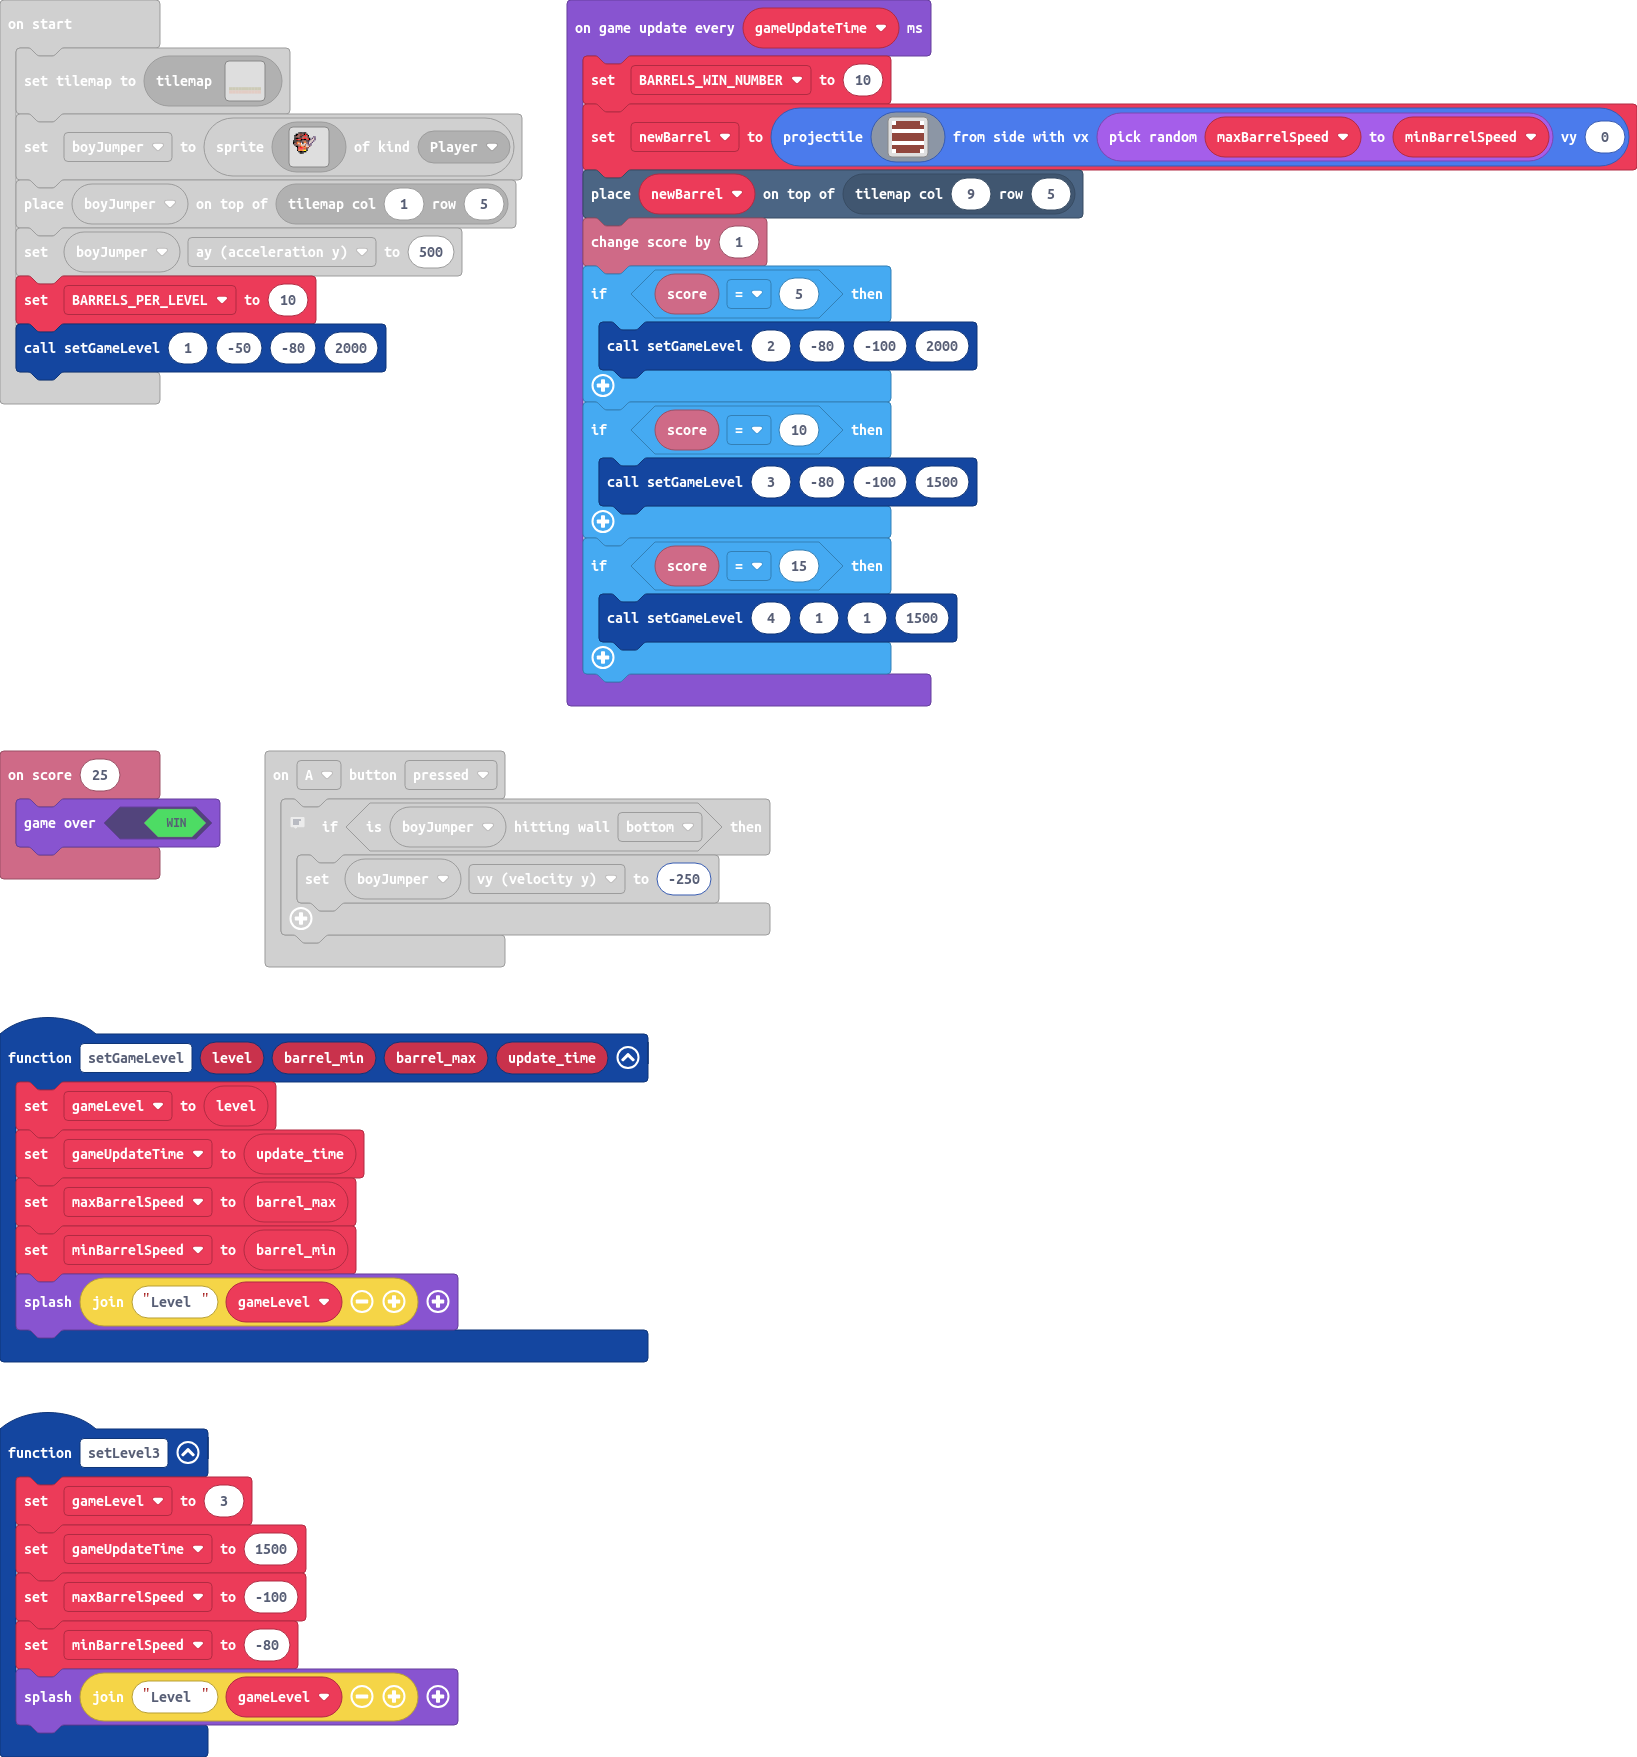
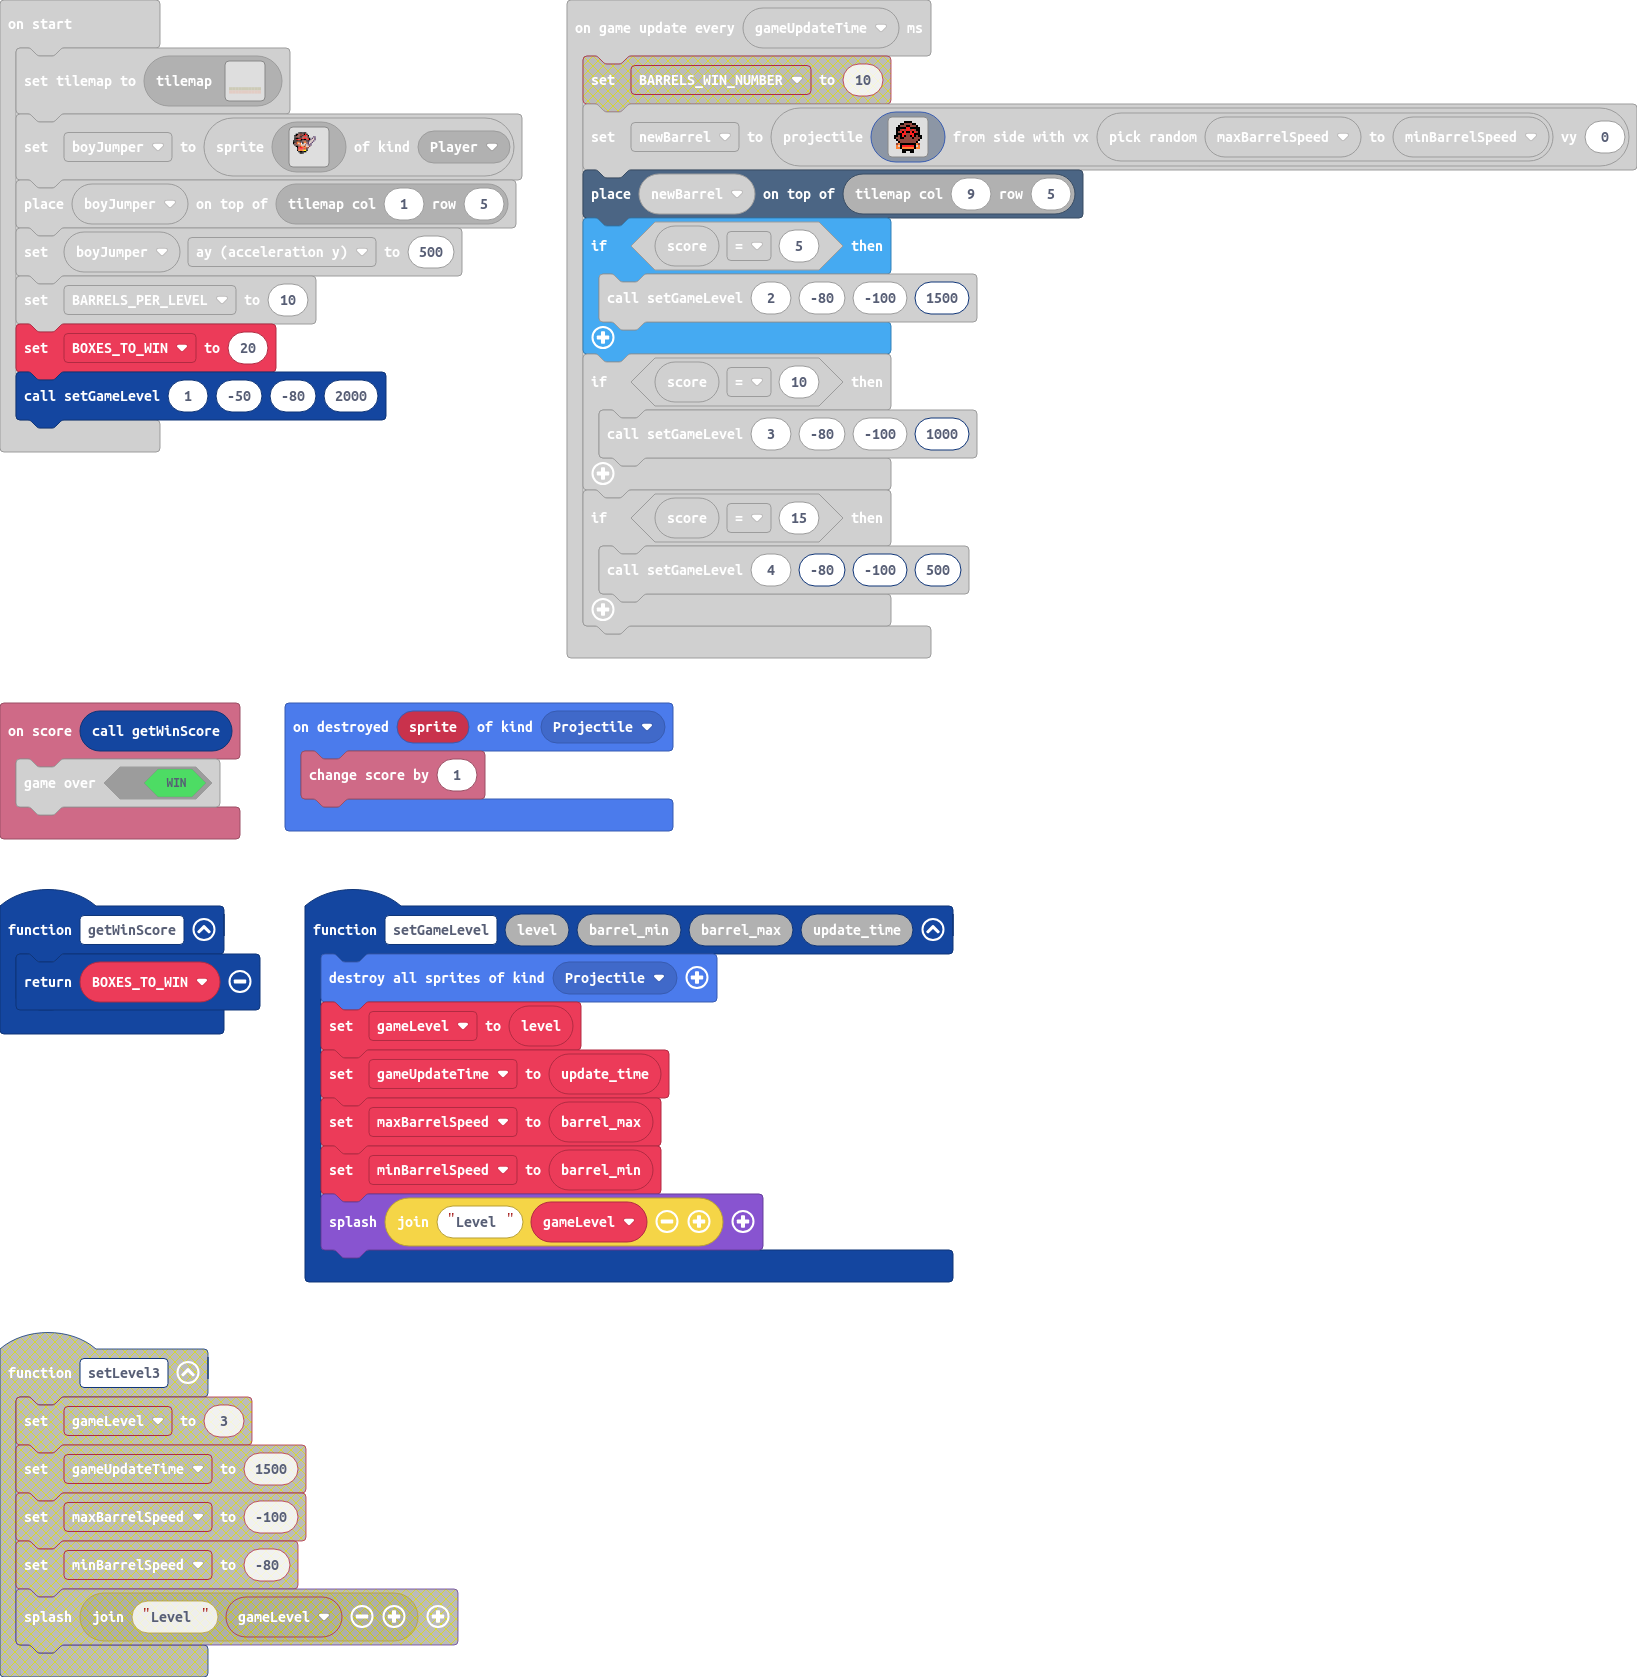
Update main.blocks, main.ts, main.py

diff --git a/main.ts b/main.ts
@@ -1,3 +1,6 @@
+info.onScore(getWinScore(), function () {
+    game.gameOver(true)
+})
 controller.A.onEvent(ControllerButtonEvent.Pressed, function () {
     // If this hitting bottom not added sprite can fly just by hitting button A and always wins :)
     // 
@@ -5,20 +8,17 @@ controller.A.onEvent(ControllerButtonEvent.Pressed, function () {
         boyJumper.vy = -250
     }
 })
-info.onScore(25, function () {
-    game.gameOver(true)
-})
 sprites.onOverlap(SpriteKind.Player, SpriteKind.Projectile, function (sprite, otherSprite) {
     game.gameOver(false)
 })
-function setLevel3 () {
-    gameLevel = 3
-    gameUpdateTime = 1500
-    maxBarrelSpeed = -100
-    minBarrelSpeed = -80
-    game.splash("Level " + gameLevel)
+function getWinScore () {
+    return BOXES_TO_WIN
 }
+sprites.onDestroyed(SpriteKind.Projectile, function (sprite) {
+    info.changeScoreBy(1)
+})
 function setGameLevel (level: number, barrel_min: number, barrel_max: number, update_time: number) {
+    sprites.destroyAllSpritesOfKind(SpriteKind.Projectile)
     gameLevel = level
     gameUpdateTime = update_time
     maxBarrelSpeed = barrel_max
@@ -26,11 +26,11 @@ function setGameLevel (level: number, barrel_min: number, barrel_max: number, up
     game.splash("Level " + gameLevel)
 }
 let newBarrel: Sprite = null
-let BARRELS_WIN_NUMBER = 0
 let minBarrelSpeed = 0
 let maxBarrelSpeed = 0
 let gameUpdateTime = 0
 let gameLevel = 0
+let BOXES_TO_WIN = 0
 let boyJumper: Sprite = null
 tiles.setCurrentTilemap(tilemap`level1`)
 boyJumper = sprites.create(img`
@@ -62,28 +62,35 @@ boyJumper = sprites.create(img`
 tiles.placeOnTile(boyJumper, tiles.getTileLocation(1, 5))
 boyJumper.ay = 500
 let BARRELS_PER_LEVEL = 10
+BOXES_TO_WIN = 20
 setGameLevel(1, -50, -80, 2000)
 game.onUpdateInterval(gameUpdateTime, function () {
-    BARRELS_WIN_NUMBER = 10
     newBarrel = sprites.createProjectileFromSide(img`
-        1 e e e e e e 1 
-        e e e e e e e e 
-        1 1 1 1 1 1 1 1 
-        e e e e e e e e 
-        e e e e e e e e 
-        1 1 1 1 1 1 1 1 
-        e e e e e e e e 
-        1 e e e e e e 1 
+        . . . . . . f f f f . . . . . . 
+        . . . . f f e e e e f f . . . . 
+        . . . f e e e f f e e e f . . . 
+        . . f f f f f 2 2 f f f f f . . 
+        . . f f e 2 e 2 2 e 2 e f f . . 
+        . . f e 2 f 2 f f 2 f 2 e f . . 
+        . . f f f 2 2 e e 2 2 f f f . . 
+        . f f e f 2 f e e f 2 f e f f . 
+        . f e e f f e e e e f e e e f . 
+        . . f e e e e e e e e e e f . . 
+        . . . f e e e e e e e e f . . . 
+        . . e 4 f f f f f f f f 4 e . . 
+        . . 4 d f 2 2 2 2 2 2 f d 4 . . 
+        . . 4 4 f 4 4 4 4 4 4 f 4 4 . . 
+        . . . . . f f f f f f . . . . . 
+        . . . . . f f . . f f . . . . . 
         `, randint(maxBarrelSpeed, minBarrelSpeed), 0)
     tiles.placeOnTile(newBarrel, tiles.getTileLocation(9, 5))
-    info.changeScoreBy(1)
     if (info.score() == 5) {
-        setGameLevel(2, -80, -100, 2000)
+        setGameLevel(2, -80, -100, 1500)
     }
     if (info.score() == 10) {
-        setGameLevel(3, -80, -100, 1500)
+        setGameLevel(3, -80, -100, 1000)
     }
     if (info.score() == 15) {
-        setGameLevel(4, 1, 1, 1500)
+        setGameLevel(4, -80, -100, 500)
     }
 })

diff --git a/main.py b/main.py
@@ -1,3 +1,7 @@
+def on_on_score():
+    game.game_over(True)
+info.on_score(getWinScore(), on_on_score)
+
 def on_a_pressed():
     # If this hitting bottom not added sprite can fly just by hitting button A and always wins :)
     # 
@@ -5,50 +9,31 @@ def on_a_pressed():
         boyJumper.vy = -250
 controller.A.on_event(ControllerButtonEvent.PRESSED, on_a_pressed)
 
-def setLevel4():
-    global gameLevel, gameUpdateTime, maxBarrelSpeed, minBarrelSpeed
-    gameLevel = 4
-    gameUpdateTime = 1000
-    maxBarrelSpeed = -120
-    minBarrelSpeed = -30
-    game.splash("Level " + str(gameLevel))
-
 def on_on_overlap(sprite, otherSprite):
     game.game_over(False)
 sprites.on_overlap(SpriteKind.player, SpriteKind.projectile, on_on_overlap)
 
-def setLevel3():
-    global gameLevel, gameUpdateTime, maxBarrelSpeed, minBarrelSpeed
-    gameLevel = 3
-    gameUpdateTime = 1500
-    maxBarrelSpeed = -100
-    minBarrelSpeed = -80
-    game.splash("Level " + str(gameLevel))
-def setLevel2():
-    global gameLevel, gameUpdateTime, maxBarrelSpeed, minBarrelSpeed
-    gameLevel = 2
-    gameUpdateTime = 2000
-    maxBarrelSpeed = -100
-    minBarrelSpeed = -80
-    game.splash("Level " + str(gameLevel))
+def getWinScore():
+    return BOXES_TO_WIN
 
-def on_on_score():
-    game.game_over(True)
-info.on_score(40, on_on_score)
+def on_on_destroyed(sprite2):
+    info.change_score_by(1)
+sprites.on_destroyed(SpriteKind.projectile, on_on_destroyed)
 
-def setLevel1():
+def setGameLevel(level: number, barrel_min: number, barrel_max: number, update_time: number):
     global gameLevel, gameUpdateTime, maxBarrelSpeed, minBarrelSpeed
-    gameLevel = 1
-    gameUpdateTime = 2000
-    maxBarrelSpeed = -80
-    minBarrelSpeed = -50
+    sprites.destroy_all_sprites_of_kind(SpriteKind.projectile)
+    gameLevel = level
+    gameUpdateTime = update_time
+    maxBarrelSpeed = barrel_max
+    minBarrelSpeed = barrel_min
     game.splash("Level " + str(gameLevel))
 newBarrel: Sprite = None
-BARRELS_WIN_NUMBER = 0
 minBarrelSpeed = 0
 maxBarrelSpeed = 0
 gameUpdateTime = 0
 gameLevel = 0
+BOXES_TO_WIN = 0
 boyJumper: Sprite = None
 tiles.set_current_tilemap(tilemap("""
     level1
@@ -83,29 +68,36 @@ boyJumper = sprites.create(img("""
 tiles.place_on_tile(boyJumper, tiles.get_tile_location(1, 5))
 boyJumper.ay = 500
 BARRELS_PER_LEVEL = 10
-setLevel1()
+BOXES_TO_WIN = 20
+setGameLevel(1, -50, -80, 2000)
 
 def on_update_interval():
-    global BARRELS_WIN_NUMBER, newBarrel
-    BARRELS_WIN_NUMBER = 10
+    global newBarrel
     newBarrel = sprites.create_projectile_from_side(img("""
-            1 e e e e e e 1 
-                    e e e e e e e e 
-                    1 1 1 1 1 1 1 1 
-                    e e e e e e e e 
-                    e e e e e e e e 
-                    1 1 1 1 1 1 1 1 
-                    e e e e e e e e 
-                    1 e e e e e e 1
+            . . . . . . f f f f . . . . . . 
+                    . . . . f f e e e e f f . . . . 
+                    . . . f e e e f f e e e f . . . 
+                    . . f f f f f 2 2 f f f f f . . 
+                    . . f f e 2 e 2 2 e 2 e f f . . 
+                    . . f e 2 f 2 f f 2 f 2 e f . . 
+                    . . f f f 2 2 e e 2 2 f f f . . 
+                    . f f e f 2 f e e f 2 f e f f . 
+                    . f e e f f e e e e f e e e f . 
+                    . . f e e e e e e e e e e f . . 
+                    . . . f e e e e e e e e f . . . 
+                    . . e 4 f f f f f f f f 4 e . . 
+                    . . 4 d f 2 2 2 2 2 2 f d 4 . . 
+                    . . 4 4 f 4 4 4 4 4 4 f 4 4 . . 
+                    . . . . . f f f f f f . . . . . 
+                    . . . . . f f . . f f . . . . .
         """),
         randint(maxBarrelSpeed, minBarrelSpeed),
         0)
     tiles.place_on_tile(newBarrel, tiles.get_tile_location(9, 5))
-    info.change_score_by(1)
     if info.score() == 5:
-        setLevel2()
+        setGameLevel(2, -80, -100, 1500)
     if info.score() == 10:
-        setLevel3()
-    if info.score() == 20:
-        setLevel4()
+        setGameLevel(3, -80, -100, 1000)
+    if info.score() == 15:
+        setGameLevel(4, -80, -100, 500)
 game.on_update_interval(gameUpdateTime, on_update_interval)
